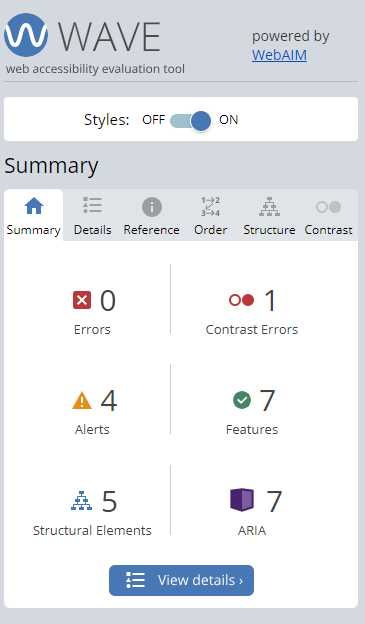
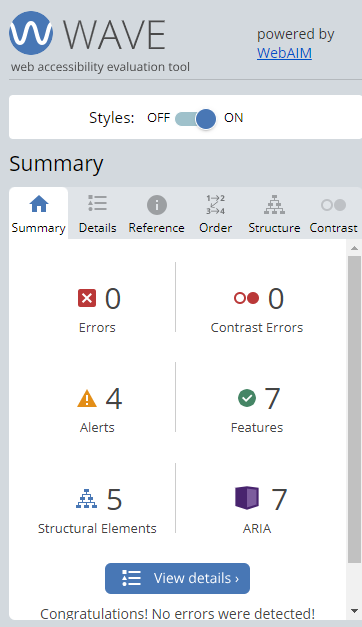
Add testing section to TESTING.md

diff --git a/assets/css/style.css b/assets/css/style.css
@@ -203,8 +203,12 @@ h1 {
 
 /* Footer styles */
 #footer-text {
-    padding: 1rem;
+    padding: 0.5rem;
     text-align: center;
+}
+
+footer {
+    background-color: black;
 }
 
 /* media query for small phones (320px) and larger */

diff --git a/TESTING.md b/TESTING.md
@@ -17,10 +17,10 @@ You can visit the website [here](https://jonathandussot.github.io/star-wars-quiz
   - [Lighthouse](#lighthouse)
   - [Manual Testing](#manual-testing)
     - [Testing User Stories](#testing-user-stories)
-      - [First Time Visitors](#first-time-visitors)
-      - [First time Carers interested in Kids Club sessions](#first-time-carers-interested-in-kids-club-sessions)
-      - [Existing Members](#existing-members)
-    - [Full Testing](#full-testing)
+      - [User Stories](#user-stories)
+    - [Functionality tests](#functionality-tests)
+      - [Button Testing](#button-testing)
+      - [Browser Testing](#browser-testing)
   - [Solved Bugs](#solved-bugs)
 
 ## W3C Validator
@@ -42,7 +42,7 @@ I used JSHint to validate the JavaScript code from my page. Results can be seen 
 
 ## Wave
 
-I used WAVE to verify the performance of the site. All tests passed on the page with the exception mentioned in the accessibility section.
+I used WAVE to verify the performance of the site. All tests passed on the page.
 
 ![screenshot of performance on WAVE](documentation/sw-wave-screenshot.png)
 
@@ -50,53 +50,49 @@ I used WAVE to verify the performance of the site. All tests passed on the page 
 
 I used lighthouse in Google DevTools to verify the site passed all tests.These are the results on a Desktop:
 
-![screenshot of performance on Lighthouse for desktop](documentation/sw-lighthouse-1.png)(documentation/sw-lighthouse-2.png)
+![screenshot of performance on Lighthouse for desktop](documentation/sw-lighthouse-1.png)
+![more details](documentation/sw-lighthouse-2.png)
 
 And these are the results on a mobile screen:
 
-![screenshot of performance on Lighthouse for mobile](documentation/sw-lighthouse-mobile-1.png)(documentation/sw-lighthouse-mobile-2.png)
+![screenshot of performance on Lighthouse for mobile](documentation/sw-lighthouse-mobile-1.png)
+![more details](documentation/sw-lighthouse-mobile-2.png)
 
 ## Manual Testing
 
 ### Testing User Stories
 
-#### First Time Visitors
+#### User Stories
 
 | Goal | How is this achieved? |
 |---|---|
-|I want to find out about the club, its prices, its variety of services and how to sign up.| The home page provides this information and how to contact us.|
-|I want to be able to navigate through the website and easily find the information I am looking for.| The NavBar provides easy navigation to all areas of the website. |
-|I want to learn more about the hobby through its benefits and the possibility of acquiring personal coaching sessions.| The home page gives information of the benefits of the sport as well as information on Coaching Lesson's times and prices.|
-|I want to find the club's location and have easy access to contact information should I need it.| This is also found at the bottom of the home page with contact information and a map provided by Google Maps.|
+|I want to put my knowledge to the test in this particular topic.| The quiz offers many questions ranging from the oldest to the newest trilogy in the saga.|
+|I want to be able to choose a level of difficulty that is suitable to me.| The quiz provides users with three different difficulties for them to test their knowledge. |
+|I want to be able to easily navigate through the page and understand clearly its different functions and information presented to me.| The home page gives information through the instructions of how to navigate through the quiz.|
+|I want it to be dynamic and fun so I can enjoy myself either alone or in the company of my friends whilst going through the quiz.| A variety of dynamic functions are included such as sounds and images of characters within the _Str Wars_ universe. Other functions to make the game more dynamic among friends will be implemented in future implementations.|
 
-#### First time Carers interested in Kids Club sessions
+### Functionality tests
 
-| Goal | How is this achieved? |
-|---|---|
-|I want to find out more information as to who will be coaching my child.| The Kids Club page gives information regarding the coach handling Kids Club.|
-|I want to feel comfortable knowing they are in a secure and responsible club which has their best interests in mind.| A brief introduction is given to display our level of standards and professionalism.|
-|I want to get the schedule of the sessions and determine its convenience according to my child's school timetable.| The coaching days & times can clearly be seen in the Kids Club page.|
+#### Button Testing
 
-#### Existing Members
+| Description | expected results | Did it result correctly? |
+|---|---|---|
+|Hovering over buttons.| The button changes colour to detect the mouse hovering over it.| Yes |
+|Selecting buttons.| The button changes colour to detect the mouse hovering over it.| Yes |
+|Sound once game difficulty is selected.| The button triggers the gamestart-sound.mp3.| Yes |
+|Selected game questions displayed.| Each game difficulty button leads to a seperate string of questions.| Yes |
+|Answer Selection.| Correct and incorrect options are highlighted in different colours before then displaying the next button.| Yes |
+|Next button function.| The next button leads to a randomly shuffled question within the same question string.| Yes |
+|Results page button.| The button leads to the results page with the amount of correct answers and a customized feedback message.| Yes |
+|Restart quiz.| The restart button leads to the home page with the instructions and game difficulties.| Yes |
+|Star Wars logo.|  The logo leads to the home page with the instructions and game difficulties| Yes |
 
-| Goal | How is this achieved? |
-|---|---|
-|I want to find a reliable booking system to provide me with accurate information in regards to table availability, especially in the case of coaching sessions.| Available times can be found within the Bookings page.|
-|I want to be updated on upcoming events and/or offers.| This is one of our future implementations we hope to address soon.|
+#### Browser Testing
 
-### Full Testing
-
-Full Testing was performed on each of the following features:
-
-- Sizing was verified through Google DevTools to check all screen sizes.
-- Navbar's logo and links direct to the appropriate destination.  Navbar correctly indicates current page on all screen sizes.
-- Footer links all direct to correct websites, hover effect functions with larger screens.
-- Forms' functions were tested and all passed:
-  - Required input fields do not allow user to submit without providing the required information.
-  - Submit button takes user to a page that confirms information given.
-  - Cancel button resets the form and deletes all information given.
-- Video displays adequately on all screen sizes, and is not set to autoplay.
-- Map is responsive and allows user to interact without any issues.
+| Description | expected results | Did it result correctly? |
+|---|---|---|
+|Testing the page's functionality on different Browsers.| The page works with no errors at all on different browsers.| Yes- tested on Google Chrome and Microsoft Edge. |
+|Testing the page's functionality regariding different sizing.| The page returns no errors upon adjusting screen sizes.| Yes- screen was re-adjusted on Google DevTools to verify all sizes. |
 
 ## Solved Bugs
 

diff --git a/README.md b/README.md
@@ -186,9 +186,7 @@ In order to ensure that this website is as accessible friendly as possible, the 
 - Ensuring there is a sufficient colour contrast throughout the site.
 - I used Lighthouse and wAVE to ensure good measures were taken for accessibility.
 - instructions guide the user through the game's dynamics.
-
-WAVE displays an error within the footer stating there is a low contrast and that both text color and background color are white.  However, the text color is clearly visible in contrast to the background image which is evidently a very dark colour.
-
+  
 ## Technologies Used
 
 ### Languages Used
@@ -260,6 +258,8 @@ click [here](TESTING.md) to see the all the details in regard to the testing don
 - The information I got for my questions mostly came from [buzzfeed](https://www.buzzfeed.com/laurafrustaci/star-wars-trivia)
 
 - Some concepts and parts of code were taken from a [tutorial by 'Web Dev Simplified'](https://www.youtube.com/watch?v=riDzcEQbX6k) as detailed in my [script.js](script.js).
+
+- [Stackoverflow](https://stackoverflow.com/questions/9419263/how-to-play-audio) and their ideas of how to implement audios.
 
 ### Media
 
